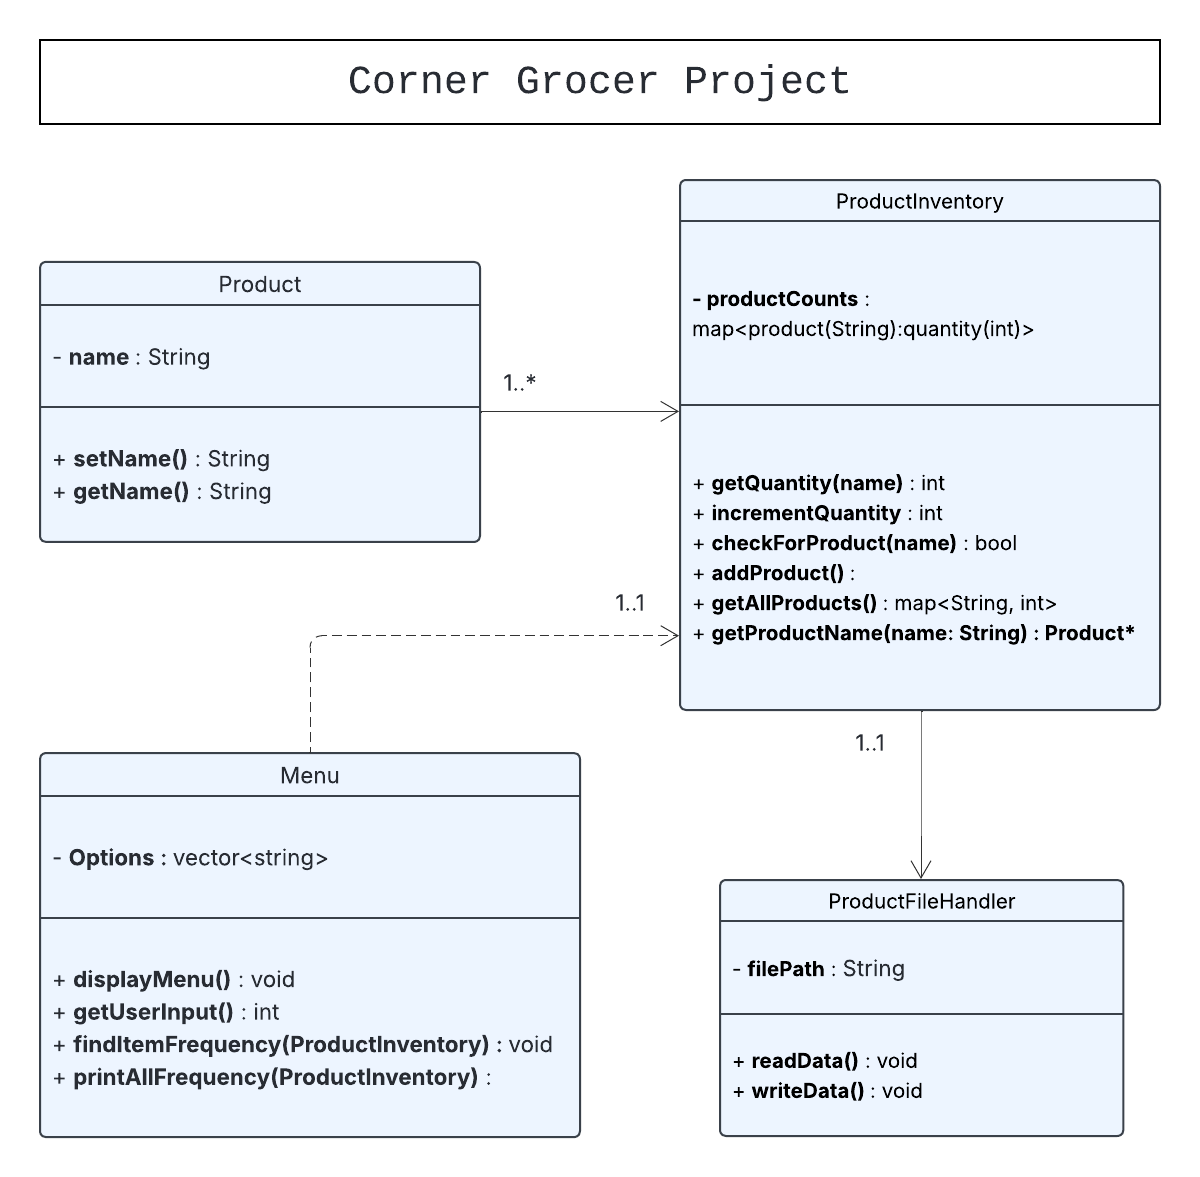
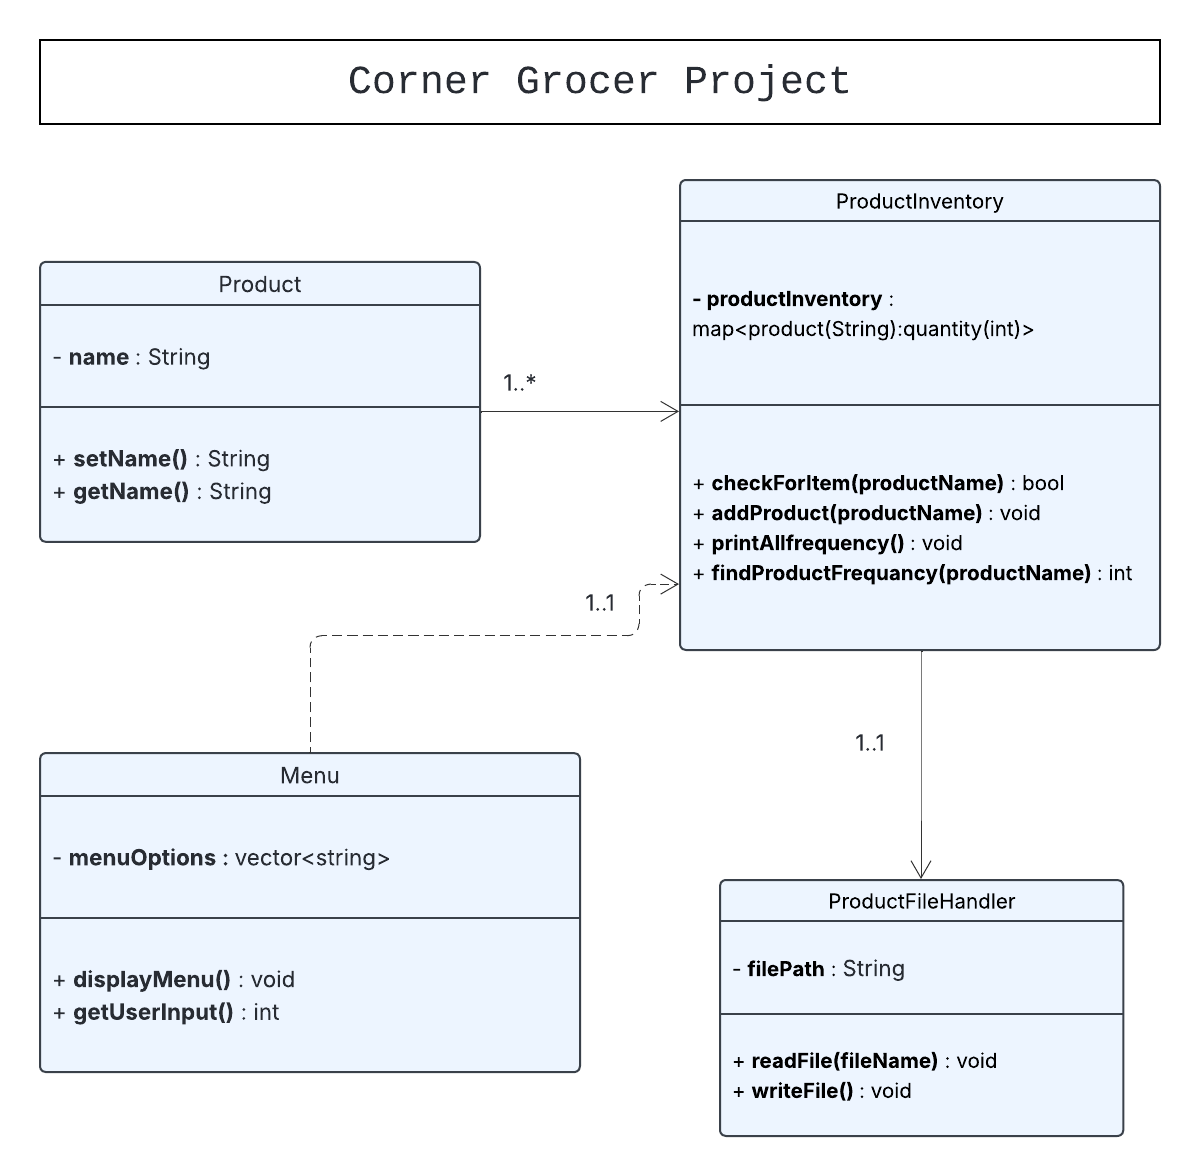
Outlined header files and updated UML

diff --git a/ProductInventory.h b/ProductInventory.h
@@ -1,0 +1,26 @@
+#ifndef PRODUCTINVENTORY_H
+#define PRODUCTINVENTORY_H
+
+#include <iostream>
+#include <string>
+#include <map>
+
+class ProductInventory {
+private:
+    std::map<std::string, int> productInventory; // Map to hold product quantity pairs
+
+public:
+    ProductInventory(); // Constructor
+
+    int findProductfrequency(std::string productName); // Function to find the frequency of a specific product in the inventory
+
+    void printAllFrequency(); // Function to print all of the product and counts from the inventory
+
+    bool checkForProduct(std::string productName); // Function to check if an product exists in the inventory
+
+    void addProduct(std::string productName); // Function to add a new product to the inventory or increment an existing one
+
+
+};
+
+#endif

diff --git a/ProductFileHandler.h b/ProductFileHandler.h
@@ -1,0 +1,19 @@
+#ifndef PRODUCTFILEHANDLER_H
+#define PRODUCTFILEHANDLER_H
+
+#include <iostream>
+#include <string>
+
+class ProductFileHandler {
+private:
+    std::string fileName; // variable for file name
+
+public:
+    ProductFileHandler(); // Constructor
+
+    void readFile(std::string fileName); // Function to read file
+
+    void writeFile(); // Function to write file
+};
+
+#endif

diff --git a/Product.h b/Product.h
@@ -1,0 +1,19 @@
+#ifndef PRODUCT_H
+#define PRODUCT_H
+
+#include <iostream>
+#include <string>
+
+class Product{
+private:
+    std:: string name; // variable for product name
+
+public:
+    Product(); // Constructor
+    
+    void setName(std::string productName); // Function to set product name
+
+    std::string getName(); // Function to get product name
+};
+
+#endif

diff --git a/Menu.h b/Menu.h
@@ -1,0 +1,19 @@
+#ifndef MENU_H
+#define MENU_H
+
+#include <iostream>
+#include <string>
+#include <vector>
+
+class Menu{
+private:
+    std::vector<std::string> menuOptions; // Vector of menu options
+    
+public:
+    Menu(); // Constructor
+
+    void displayMenu();
+
+    int getUserInput();
+};
+#endif 
